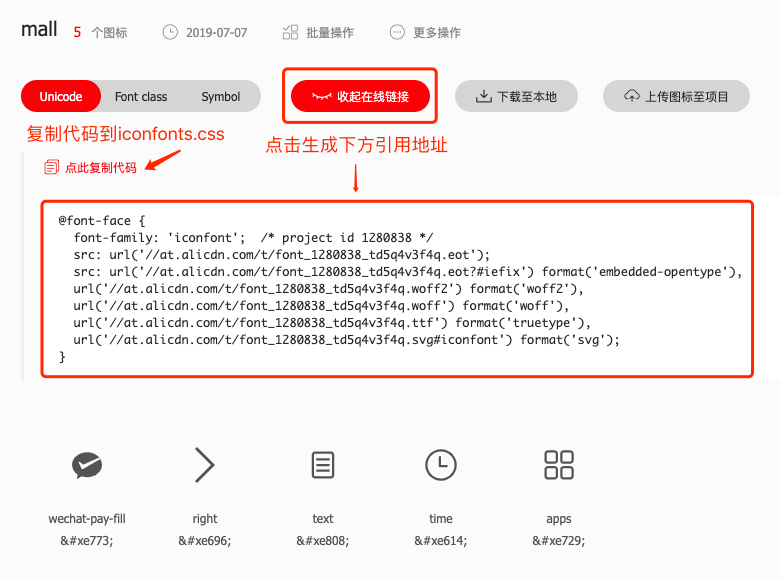
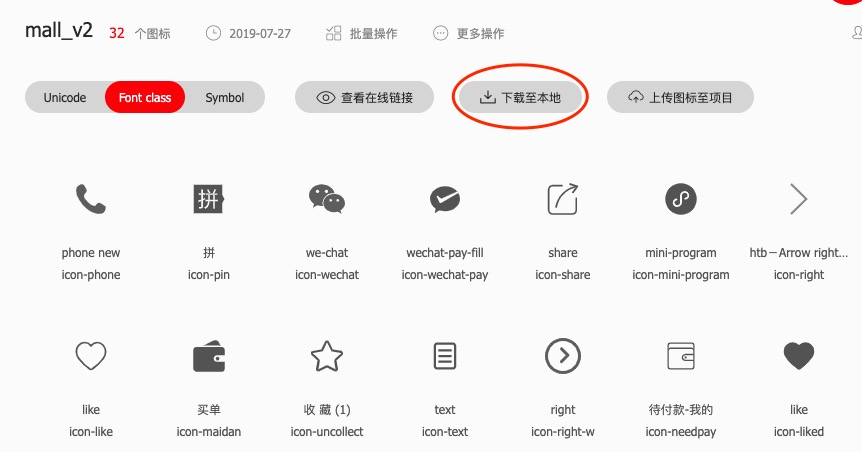
更新小程序-阿里图标库

diff --git a/小程序/阿里图表库.md b/小程序/阿里图表库.md
@@ -1,20 +1,26 @@
 ### 概述
 在小程序中，经常使用的小图标如果都是用图片形式的话，会大大增加小程序的体积，为了缩小体积，我们可以使用[阿里巴巴矢量图表库](https://www.iconfont.cn)
 ### 准备
-选择自己需要的图标字体，生成在线代码
+选择自己需要的图标字体，下载到本地
 ![生成在线代码](../imgs/mini_icon01.png)
 
-将下载下来的内容解压，并将`iconfonts.css`文件内容复制到小程序的全局wxss文件中，并将上面图中复制的地址替换wxss中的应用地址
+将下载下来的内容解压，并将`iconfonts.css`文件内容复制到小程序的全局`wxss`文件中，并将标注部分删除
 ```css
-/*  替换为线上的应用路径 */
+/* 修改下载的iconfont.css改名为iconfont.wxss 并在app.wxss中引入 */
+/* style/iconfont.wxss */
 @font-face {
     font-family: 'iconfont';  /* project id 1280838 */
-    src: url('//at.alicdn.com/t/font_1280838_td5q4v3fd4q.eot');
-    src: url('//at.alicdn.com/t/font_1280838_td5q4v3ff4q.eot?#iefix') format('embedded-opentype'),
-    url('//at.alicdn.com/t/font_1280838_tdv5q4v3f4q.woff2') format('woff2'),
+    src: 
+    /**
+    这部分删除
+    url('iconfont.eot?t=1564817270348');
+    src: url('iconfont.eot?t=1564817270348#iefix'') format('embedded-opentype'),**/
+    url('data:application/x-font-woff2;charset=utf-8;base64,/** base64代码 **/') /**
+    这部分删除
+    format('woff2'),
     url('//at.alicdn.com/t/font_1280838_td5qd4v3f4q.woff') format('woff'),
     url('//at.alicdn.com/t/font_1280838_td5qr4v3f4q.ttf') format('truetype'),
-    url('//at.alicdn.com/t/font_1280838_td5q4vb3f4q.svg#iconfont') format('svg');
+    url('//at.alicdn.com/t/font_1280838_td5q4vb3f4q.svg#iconfont') format('svg')**/;
   }
 
   .iconfont {
@@ -44,13 +50,21 @@
   .icon-wechat-pay-fill:before {
     content: "\e773";
   }
-  
+```
+从style文件中引入字体文件
+```css
+/* app.wxss */
+@import './styles/iconfonts.wxss';
 ```
 
 ### 使用
-在需要使用的page或者component中使用
+在需要使用的page或者`component`中使用
 ```html
 <icon class="iconfont icon-right" />
 ```
 
-总结：这种形式的图标减少了项目的体积，但是增加了http请求的负担，因为需要外部请求图标字体文件，可以考虑将图标字体文件下载到本地
+### 特殊情况
+在使用`icon`的过程中，发现一个问题，就是如果你在`component`中使用`icon`时无法生效，解决办法就是在组件的wxss中`@import`字体文件，之后就能使用了。
+
+### 更新
+随着项目的开发，会不断的添加和删除和更新图标字体，那么这份图标字体文件`iconfont.wxss`将会不断的迭代更新，只要重复上面的操作，将download下的`iconfont.css`文件删除`@font-face`的部分内容即可使用，别忘了修改文件后缀名，否则小程序将不能`import`字体样式文件。
